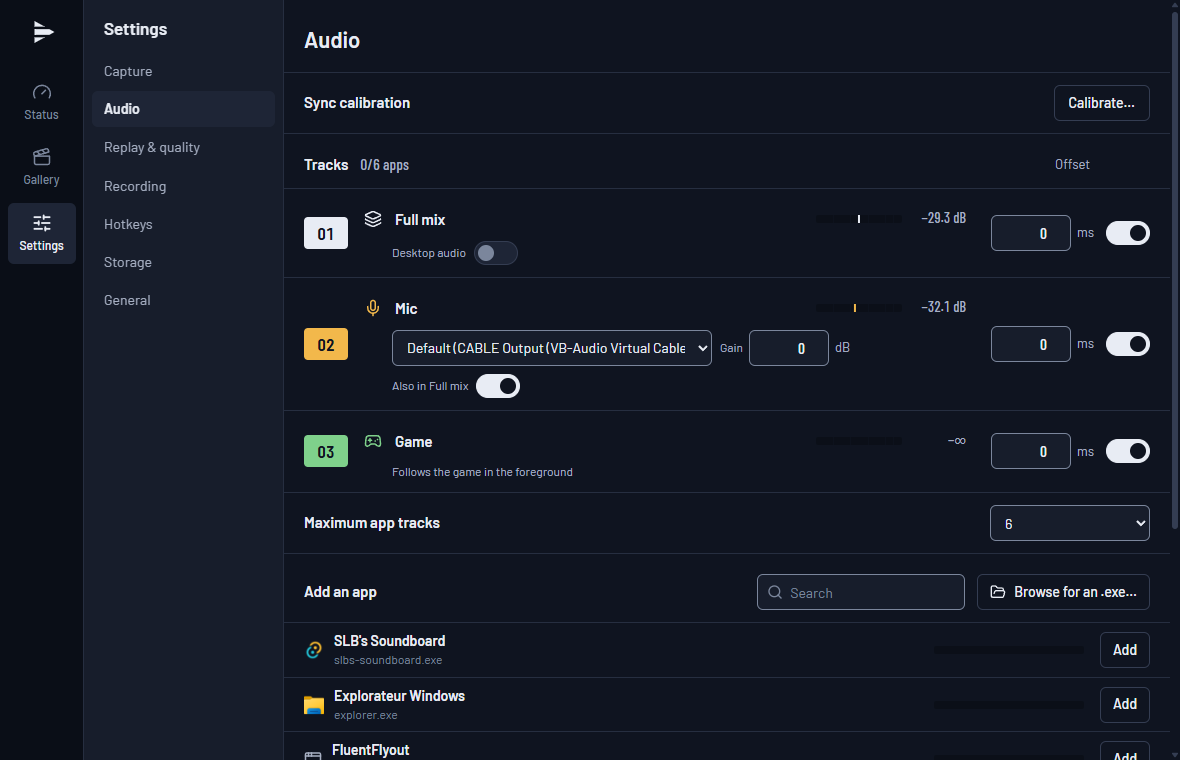
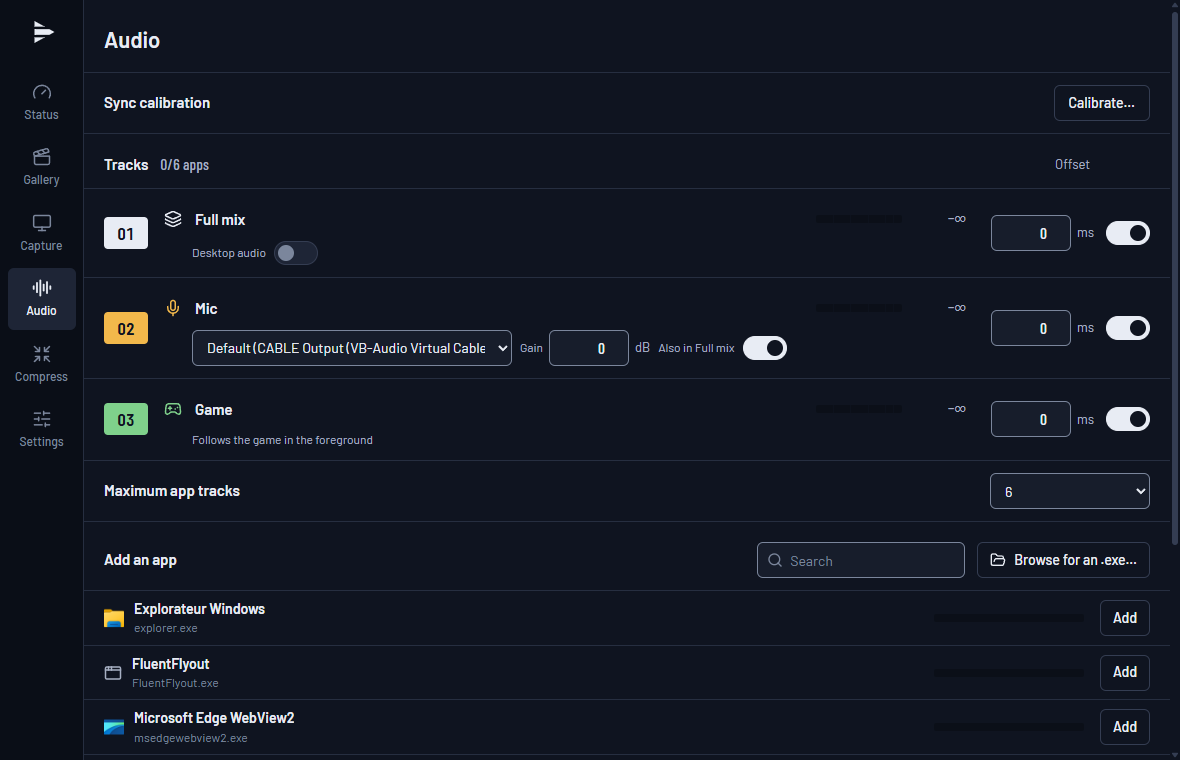
chore(repo): prepare release v1.2.0
Version 1.2.0, changelog, user notes, roadmap, README screenshots with the new sidebar and the compress page, and the session notes.

diff --git a/ROADMAP.fr.md b/ROADMAP.fr.md
@@ -39,33 +39,7 @@ pourrait marcher :
 - Les marqueurs affichés sur la barre du lecteur, pour y aller directement.
 - Export vers DaVinci Resolve en EDL de marqueurs, pour les retrouver sur la timeline de montage.
 
-## 4. Compression à une taille cible
-
-- Une page dédiée dans la barre latérale, et un bouton depuis la galerie et le lecteur.
-- Taille en Mo, avec des préréglages (20 Mo pour Discord, 500 Mo pour Nitro) ou une valeur libre.
-- Débit calculé d'après la taille et la durée ; son mixé en une seule piste.
-- Si la cible est trop basse pour une qualité correcte, la résolution et les images par seconde
-  baissent automatiquement.
-- La taille finale est vérifiée, et la vidéo est réencodée si elle dépasse la cible.
-- Accepte aussi une vidéo glissée depuis l'explorateur de fichiers.
-
-## 5. Capture et Audio dans la barre latérale
-
-- Capture et Audio deviennent des pages à part entière : État, Galerie, Capture, Audio, Réglages.
-- Un avertissement quand on quitte une page avec un changement pas encore appliqué.
-- Sur l'écran État, la source et les pistes audio ouvrent ces pages au clic.
-
-## 6. Enregistrer aussi après la sauvegarde
-
-- Un réglage « après le clic » (0 s par défaut, jusqu'à 60 s) en plus de la durée « avant ».
-  Exemple : 1 min avant + 10 s après. Le clip s'écrit une fois le temps « après » écoulé.
-- Confirmation au moment de l'appui (carillon et notification « clip en cours, encore 10 s »),
-  puis à l'écriture du clip.
-- Un nouvel appui pendant le temps « après » prolonge le même clip au lieu d'en créer un second.
-- Pas de doublon entre deux clips : le clip suivant commence là où celui-ci s'arrête.
-- Réglage dans Réglages → Replay & qualité ; l'estimation de la RAM ne change pas.
-
-## 7. Autres pistes, à décider
+## 4. Autres pistes, à décider
 
 - Signer l'installeur (Authenticode) pour que Windows SmartScreen n'avertisse plus.
 - D'autres langues que le français et l'anglais.
@@ -74,6 +48,11 @@ pourrait marcher :
 
 ## Fait
 
+- **Version 1.2.0** : Capture et Audio sont des pages à part entière dans la barre latérale, avec
+  un avertissement quand on quitte une page avec un changement pas encore appliqué ; le clip peut
+  continuer jusqu'à 10 min après le raccourci (un nouvel appui le prolonge) ; les vidéos se
+  compressent à une taille cible (20 Mo Discord, 50 / 500 Mo Nitro ou une taille libre) depuis la
+  page Compression, la galerie, le lecteur ou par glisser-déposer depuis l'Explorateur.
 - **Encodage par le processeur (1.1.0)** : sans encodeur matériel qui marche, PalaClips encode
   sur le processeur, en H.264 par l'encodeur intégré à Windows ou en AV1 par SVT-AV1, avec un
   avertissement sur la charge en jeu. Le choix se fait dans Réglages → Replay & qualité →

diff --git a/ROADMAP.md b/ROADMAP.md
@@ -35,32 +35,7 @@ PalaClips needs Windows 11 today. Windows 10 version 2004 (build 19041) and late
 - Markers shown on the player's timeline, to jump straight to them.
 - Export to DaVinci Resolve as a marker EDL, so they land on the editing timeline.
 
-## 4. Compress to a target size
-
-- A dedicated page in the sidebar, plus a button from the gallery and the player.
-- Size in MB, with presets (20 MB for Discord, 500 MB for Nitro) or a free value.
-- Bitrate computed from the size and the length; sound mixed into a single track.
-- If the target is too low for good quality, resolution and frame rate go down automatically.
-- The final size is checked, and the video is encoded again if it is over the target.
-- Also accepts a video dragged in from File Explorer.
-
-## 5. Capture and Audio in the sidebar
-
-- Capture and Audio become pages of their own: Status, Gallery, Capture, Audio, Settings.
-- A warning when leaving a page with a change that is not applied yet.
-- On the Status screen, the source and the audio tracks open these pages when clicked.
-
-## 6. Keep recording after the save
-
-- An "after the press" setting (0 s by default, up to 60 s) next to the "before" length.
-  Example: 1 min before + 10 s after. The clip is written once the "after" time is over.
-- Confirmation when the hotkey is pressed (chime and notification "clip in progress, 10 s
-  left"), then again when the clip is written.
-- Pressing again during the "after" time extends the same clip instead of making a second one.
-- No overlap between clips: the next clip starts where this one ends.
-- Set in Settings → Replay & quality; the RAM estimate does not change.
-
-## 7. Other leads, to be decided
+## 4. Other leads, to be decided
 
 - Signing the installer (Authenticode) so Windows SmartScreen no longer warns.
 - More interface languages than French and English.
@@ -68,6 +43,11 @@ PalaClips needs Windows 11 today. Windows 10 version 2004 (build 19041) and late
 
 ## Done
 
+- **Version 1.2.0**: Capture and Audio are pages of their own in the sidebar, with a warning
+  when leaving a page with a change not applied yet; the clip can keep recording up to 10 min
+  after the hotkey (another press extends it); videos are compressed to a target size (20 MB
+  Discord, 50 / 500 MB Nitro or any size) from the Compress page, the gallery, the player or by
+  dragging files from File Explorer.
 - **Encoding on the processor (1.1.0)**: when no hardware encoder works, PalaClips encodes on
   the processor, in H.264 with the encoder built into Windows or in AV1 with SVT-AV1, with a
   warning about the load in game. Choose it in Settings → Replay & quality → Encoder.

diff --git a/CHANGELOG.md b/CHANGELOG.md
@@ -5,6 +5,31 @@ Format : [Keep a Changelog](https://keepachangelog.com/fr/1.1.0/), versions
 
 ## [Non publié]
 
+## [1.2.0] - 2026-10-24
+
+### Ajouté
+- Enregistrer après la sauvegarde (RPL-10, ADR-037) : réglage « Après l'appui » (0 s par défaut,
+  jusqu'à 10 min) dans Réglages → Replay & qualité. Le tampon est écrit tout de suite dans un MP4
+  hybride, puis le direct y est ajouté jusqu'à la fin ; un nouvel appui prolonge le même clip ;
+  « Terminer maintenant » sur État et dans la zone de notification ; carillon et notification
+  « Clip en cours » à l'appui. Clip récupéré au démarrage après un arrêt brutal.
+- Compression à une taille cible (CMP-01 à 05, ADR-038) : page Compression (20 Mo Discord,
+  50 Mo Nitro Basic, 500 Mo Nitro ou taille libre ; H.264 ou AV1 ; piste 1 seule ou toutes les
+  pistes), résolution et images par seconde choisies selon la taille, taille vérifiée et
+  nouvel essai si besoin, jamais au-dessus de la cible ; HDR converti en SDR ; original déjà
+  sous la cible copié sans réencodage. Depuis la galerie (un ou plusieurs clips), le lecteur
+  (découpe comprise) ou par glisser-déposer depuis l'Explorateur ; file d'attente qui continue
+  fenêtre fermée ; Copier, Ouvrir le dossier, Réessayer.
+- CLI : `replay --after`, `compress` ; bancs `post-roll.ps1`, `post-roll-memory.ps1`,
+  `compress-check.ps1`, `clip-continuity.py`.
+
+### Changé
+- Barre latérale : État, Galerie, Capture, Audio, Compression, Réglages ; Capture et Audio
+  sortent de Réglages (APP-14, ADR-036). Quitter une page, une section de Réglages ou fermer la
+  fenêtre avec un changement non appliqué demande « Appliquer et redémarrer », « Ne pas
+  appliquer » ou « Rester ». Liens directs depuis État et les alertes.
+- Tailles affichées en unités binaires, comme l'Explorateur et Discord.
+
 ## [1.1.1] - 2026-10-22
 
 ### Corrigé

diff --git a/docs/release-notes/1.2.0.md b/docs/release-notes/1.2.0.md
@@ -1,0 +1,19 @@
+## Français
+
+Trois nouveautés.
+
+- **Après l'appui** : le clip peut continuer jusqu'à 10 min après le raccourci (Réglages → Replay & qualité). Un nouvel appui le prolonge, « Terminer maintenant » l'arrête.
+- **Compression** : une nouvelle page compresse tes clips pour Discord (20 Mo), Nitro (50 ou 500 Mo) ou une taille libre, sans jamais dépasser. Depuis la galerie, le lecteur ou en glissant des vidéos depuis l'Explorateur.
+- **Capture et Audio** ont leur propre page dans la barre latérale, et l'app prévient si tu quittes une page sans appliquer un changement.
+
+Journal complet : https://github.com/Palawizard/PalaClips/blob/v1.2.0/CHANGELOG.md
+
+## English
+
+Three new features.
+
+- **After the press**: the clip can keep going for up to 10 min after the hotkey (Settings → Replay & quality). Pressing again extends it, "Finish now" stops it.
+- **Compress**: a new page compresses your clips for Discord (20 MB), Nitro (50 or 500 MB) or any size, never over it. From the gallery, the player or by dragging videos from File Explorer.
+- **Capture and Audio** have their own page in the sidebar, and the app warns you if you leave a page without applying a change.
+
+Full changelog (in French): https://github.com/Palawizard/PalaClips/blob/v1.2.0/CHANGELOG.md

diff --git a/README.fr.md b/README.fr.md
@@ -75,9 +75,11 @@ fonctionne avec les anti-triches comme Easy Anti-Cheat.
 
 | Galerie | Sources audio |
 |---|---|
-| ![La galerie, clips classés par jour](docs/screenshots/fr/gallery.png) | ![Réglages audio : une piste par appli, avec vumètre](docs/screenshots/fr/audio-sources.png) |
+| ![La galerie, clips classés par jour](docs/screenshots/fr/gallery.png) | ![Page Audio : une piste par appli, avec vumètre](docs/screenshots/fr/audio-sources.png) |
 
-![Premier lancement, question de la durée du replay](docs/screenshots/fr/first-launch.png)
+| Compression | Premier lancement |
+|---|---|
+| ![La page Compression : taille cible, codec, file d'attente avec le plan de chaque clip](docs/screenshots/fr/compress.png) | ![Premier lancement, question de la durée du replay](docs/screenshots/fr/first-launch.png) |
 
 ## Configuration requise
 

diff --git a/README.md b/README.md
@@ -73,9 +73,11 @@ Anti-Cheat.
 
 | Gallery | Audio sources |
 |---|---|
-| ![The gallery, clips grouped by day](docs/screenshots/en/gallery.png) | ![Audio settings: one track per app, with a level meter](docs/screenshots/en/audio-sources.png) |
+| ![The gallery, clips grouped by day](docs/screenshots/en/gallery.png) | ![Audio page: one track per app, with a level meter](docs/screenshots/en/audio-sources.png) |
 
-![First launch, replay length question](docs/screenshots/en/first-launch.png)
+| Compress | First launch |
+|---|---|
+| ![The Compress page: target size, codec, queue with each clip's plan](docs/screenshots/en/compress.png) | ![First launch, replay length question](docs/screenshots/en/first-launch.png) |
 
 ## Requirements
 
